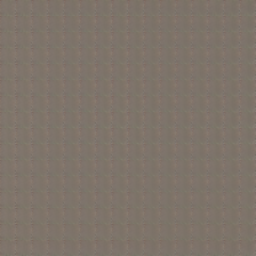
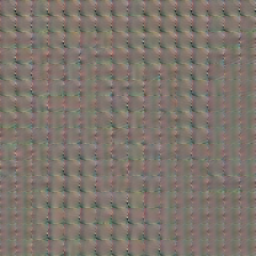
change to simpler mlp

diff --git a/rqvae/models/MAE/blocks.py b/rqvae/models/MAE/blocks.py
@@ -16,10 +16,10 @@ class SimpleMLP(nn.Module):
                 next_dim = bottle_dim
             hidden_dim = int(cur_dim * mlp_ratio)
             self.down.append(nn.Sequential(
-                nn.Linear(cur_dim, hidden_dim),
-                norm(hidden_dim),
-                act(),
-                nn.Linear(hidden_dim, next_dim),
+                nn.Linear(cur_dim, next_dim),
+                #norm(hidden_dim),
+                #act(),
+                #nn.Linear(hidden_dim, next_dim),
                 norm(next_dim),
                 act(),
             ))
@@ -33,10 +33,10 @@ class SimpleMLP(nn.Module):
                 next_dim = input_dim
             hidden_dim = int(cur_dim * mlp_ratio)
             self.up.append(nn.Sequential(
-                nn.Linear(cur_dim, hidden_dim),
-                norm(hidden_dim),
-                act(),
-                nn.Linear(hidden_dim, next_dim),
+                nn.Linear(cur_dim, next_dim),
+                #norm(hidden_dim),
+                #act(),
+                #nn.Linear(hidden_dim, next_dim),
                 norm(next_dim),
                 act(),
             ))
